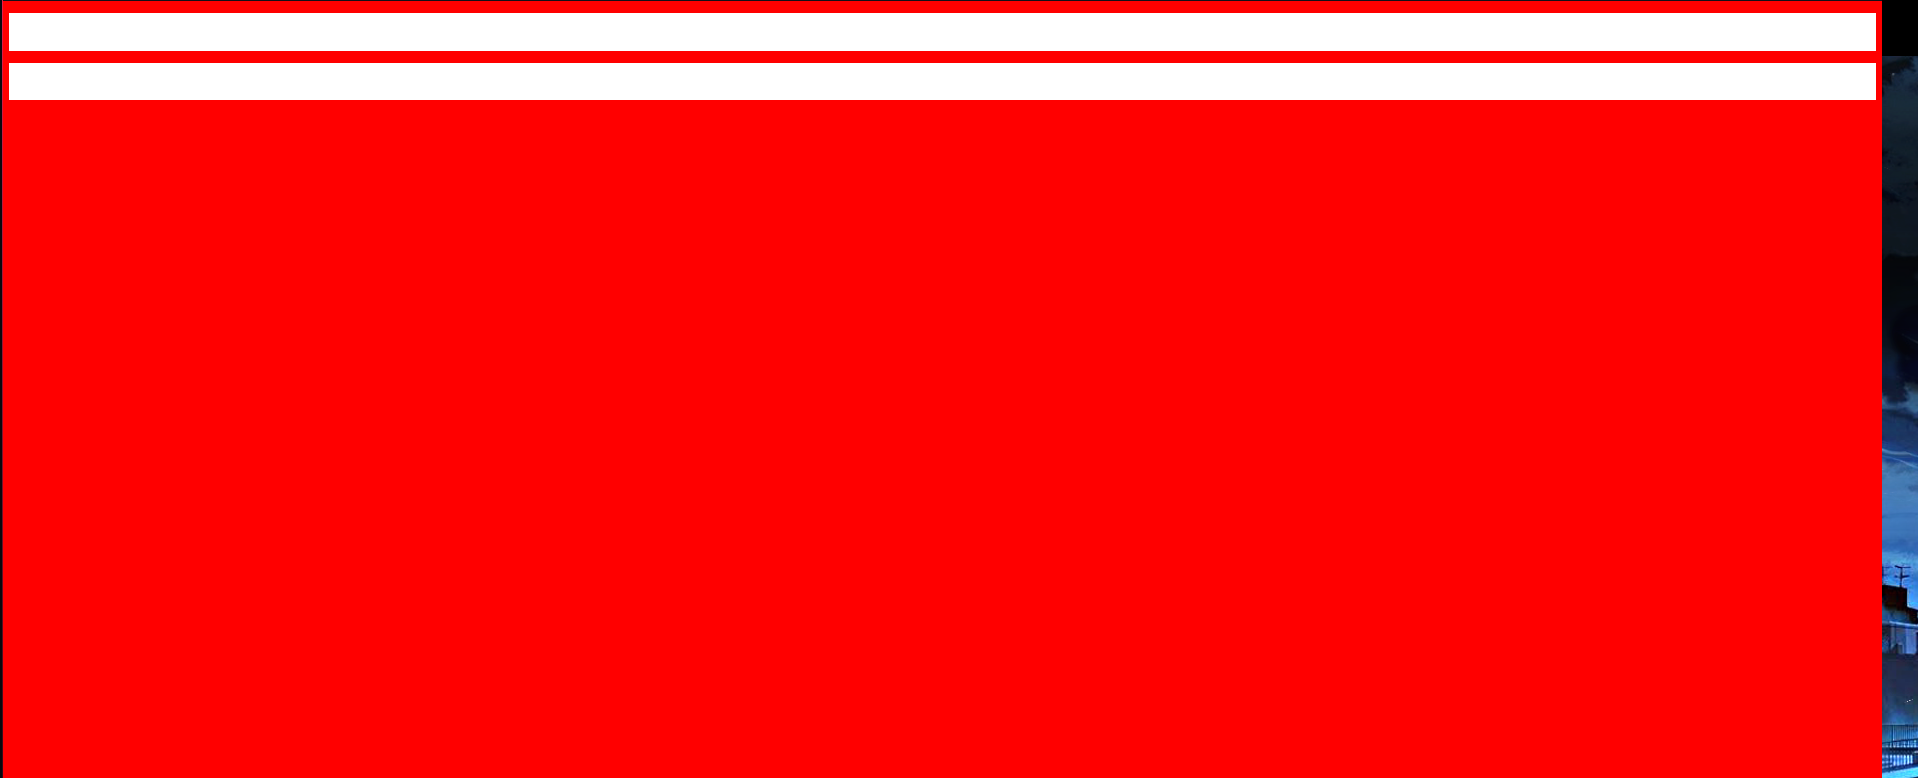
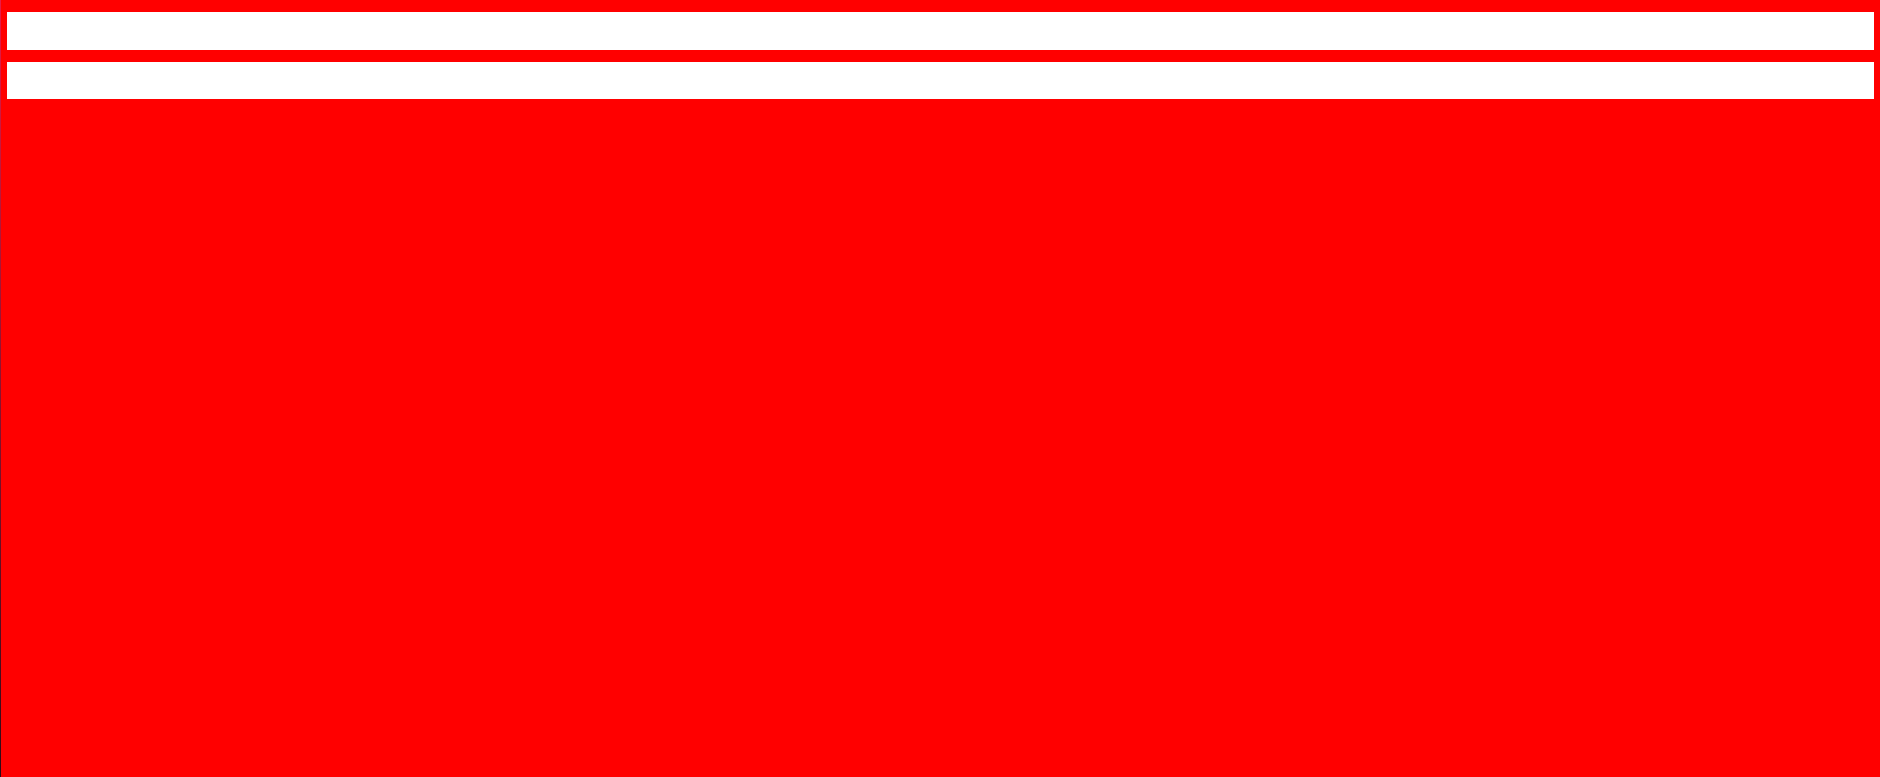
index actualitzat

Changed region(s): [[0.9564, 0.0, 1.0, 1.0], [0.0, 0.0618, 0.0309, 0.0927], [0.0, 0.0, 0.0309, 0.0309]]

diff --git a/index.html b/index.html
@@ -25,10 +25,10 @@
     <ul class="ufgran">
     UF1
     </ul>
-      <a class="caixapag" href="UF1/MP08UF1000_Prova1/index.html"><img class="MP08UF1000_Prova1" src="img/prova1.png"/><li>Prova 1</li></a>
-      <a class="caixapag" href="UF1/MP08UF1000_Prova2/index.html"><img class="MP08UF1000_Prova2" src="img/prova2.png"/><li>Prova 2</li></a>
-      <a class="caixapag" href="UF1/MP08UF1000_Prova3/index.html"><li>Prova 3A</li></a>
-      <a class="caixapag" href="UF1/MP08UF1000_Prova3/index2.html"><li>Prova 3B</li></a>
+      <a class="caixapag" href="UF1/MP08UF1000_Prova1/index.html"><img src="img/prova1.png"/><li>Prova 1</li></a>
+      <a class="caixapag" href="UF1/MP08UF1000_Prova2/index.html"><img src="img/prova2.png"/><li>Prova 2</li></a>
+      <a class="caixapag" href="UF1/MP08UF1000_Prova3/index.html"><img src="img/prova3a.png"/><li>Prova 3A</li></a>
+      <a class="caixapag" href="UF1/MP08UF1000_Prova3/index2.html"><img src="img/prova3b.png"/><li>Prova 3B</li></a>
       <a class="caixapag" class="feedly" href="UF1/MP08UF1001/index.html"><li>Feedly</li></a>
       <a class="caixapag" class="floata" href="UF1/MP08UF1002_FloatA/index.html"><li>Float A</li></a>
       <a class="caixapag" class="floatB" href="UF1/MP08UF1002_FloatB/index.html"><li>Float B</li></a>
@@ -41,7 +41,7 @@
       <a class="caixapag" class="examen" href="UF1/MP08UF1E1/index.html"><li>Examen</li></a>
     </div>
     <div class="contenidor">
-      <ul>
+      <ul class="ufgran">
       UF2
     </ul>
         <a class="caixapag" class="MP08UF2001" href="UF2/MP08UF2001/index.html"><img class="work" src="https://media.giphy.com/media/O7xsvQoMfiNVtKyAnJ/giphy.gif"/><li>MP08UF2001</li></a>
@@ -56,7 +56,7 @@
         <a class="caixapag" class="MP08UF20010" href="UF2/MP08UF20010/index.html"><img class="work" src="https://media.giphy.com/media/O7xsvQoMfiNVtKyAnJ/giphy.gif"/><li>MP08UF20010</li></a>
     </div>
     <div class="contenidor">
-      <ul>
+      <ul class="ufgran">
       UF3
     </ul>
         <a class="caixapag" class="MP08UF3001" href="UF3/MP08UF3001/index.html"><img class="work" src="https://media.giphy.com/media/O7xsvQoMfiNVtKyAnJ/giphy.gif"/><li>MP08UF3001</li></a>
@@ -69,7 +69,7 @@
         <a class="caixapag" class="MP08UF3008" href="UF3/MP08UF3008/index.html"><img class="work" src="https://media.giphy.com/media/O7xsvQoMfiNVtKyAnJ/giphy.gif"/><li>MP08UF3008</li></a>
     </div>
     <div class="contenidor">
-      <ul>
+      <ul class="ufgran">
       UF4
     </ul>
         <a class="caixapag" class="responsive" href="UF4/MP08UF4001/index.html"><li>Responsive</li></a>

diff --git a/style.css b/style.css
@@ -41,7 +41,7 @@ font-family: 'Roboto', sans-serif;
 
 .caixapag{
 display: inline-block;
-background-color: red;
+background-color: black;
 float: left;
 width: 260px;
 height: 220px;
